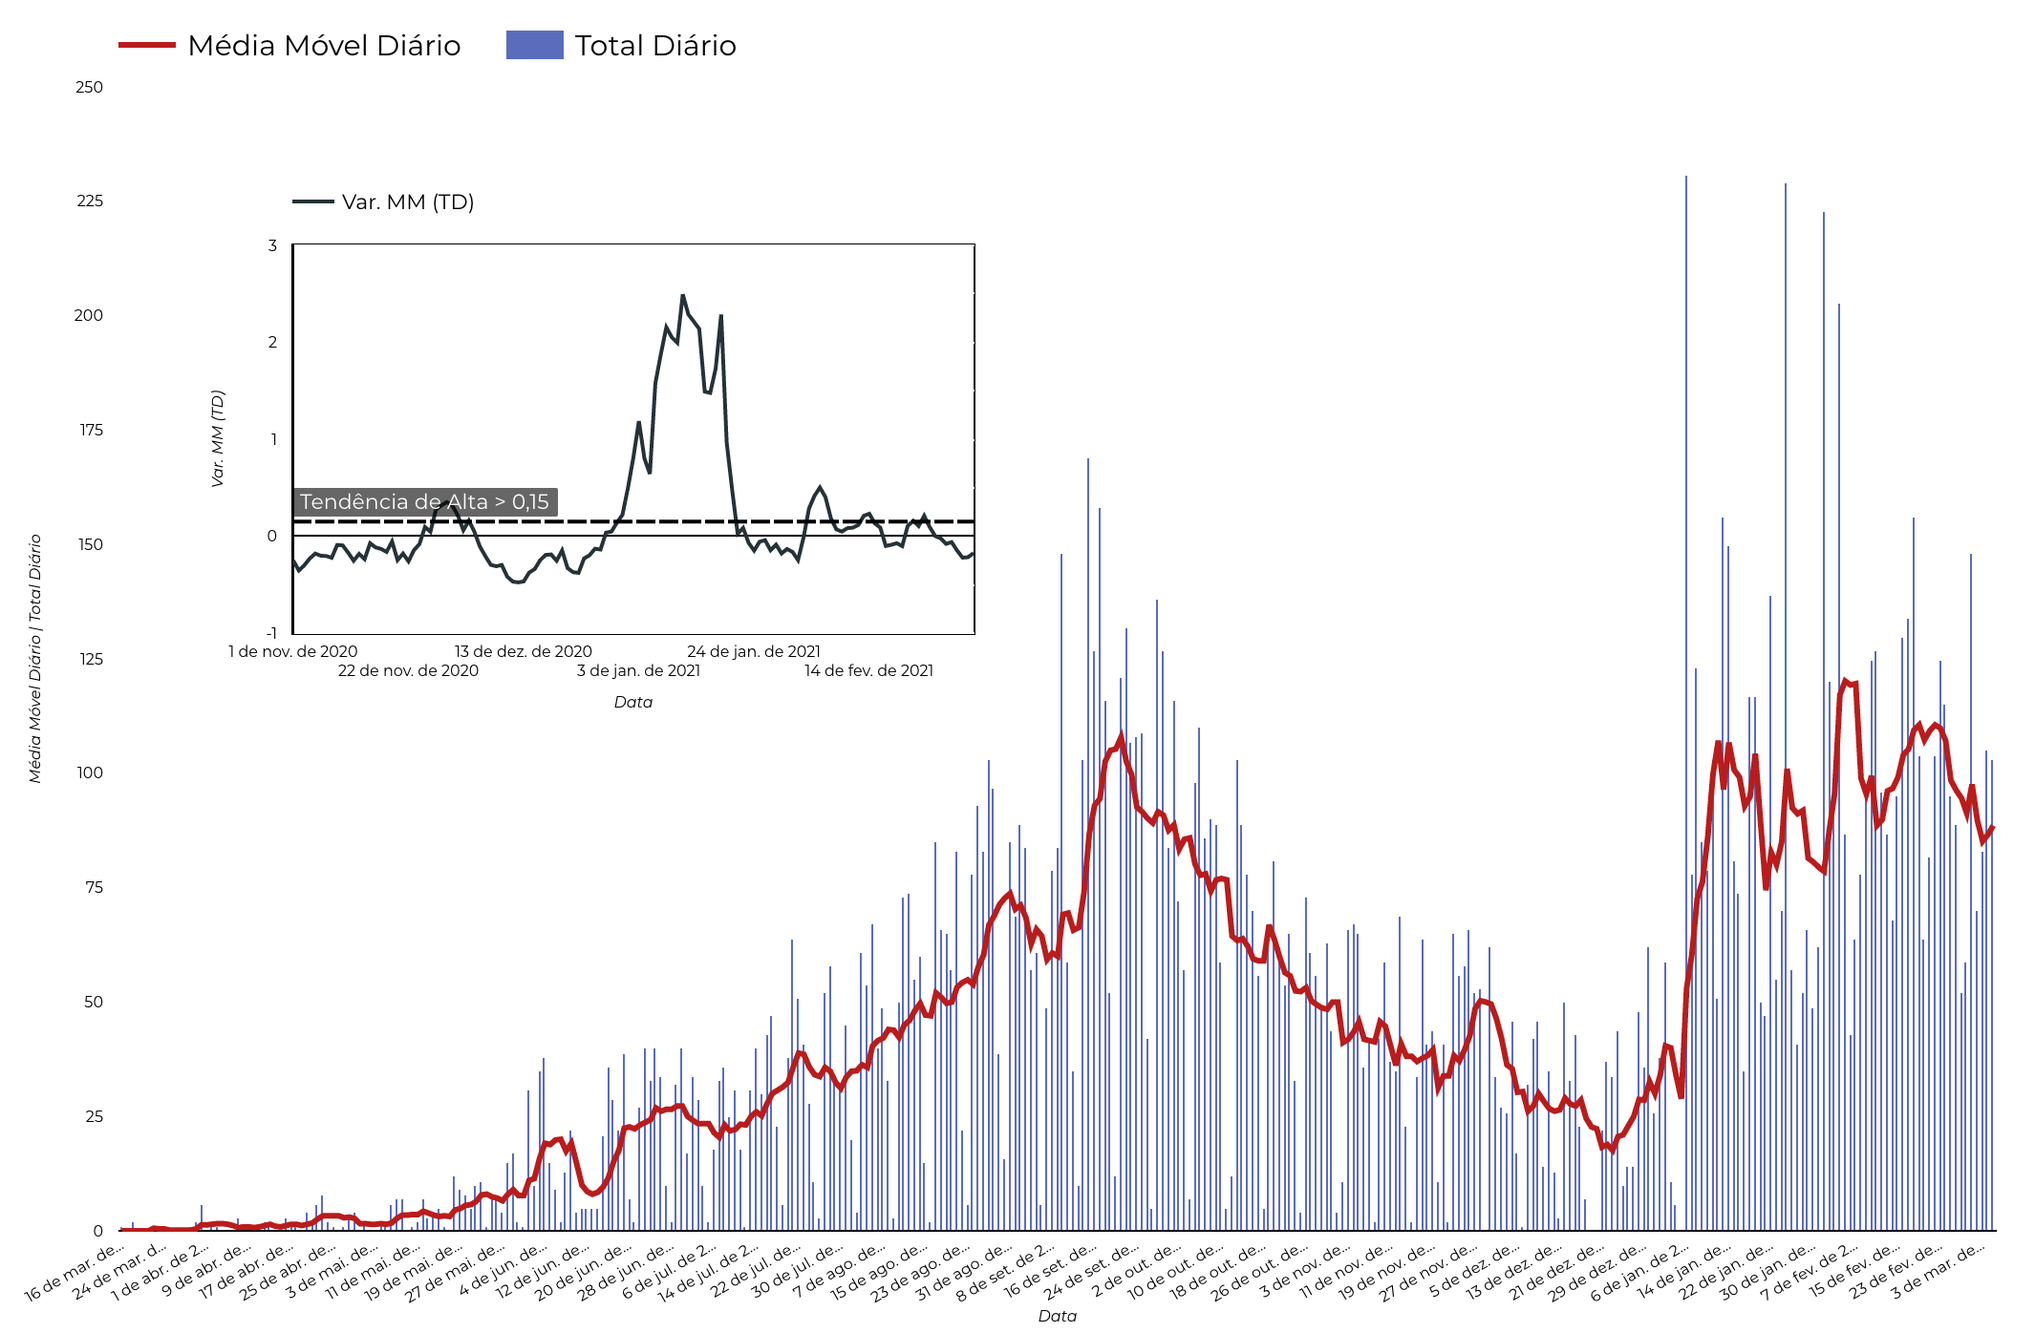
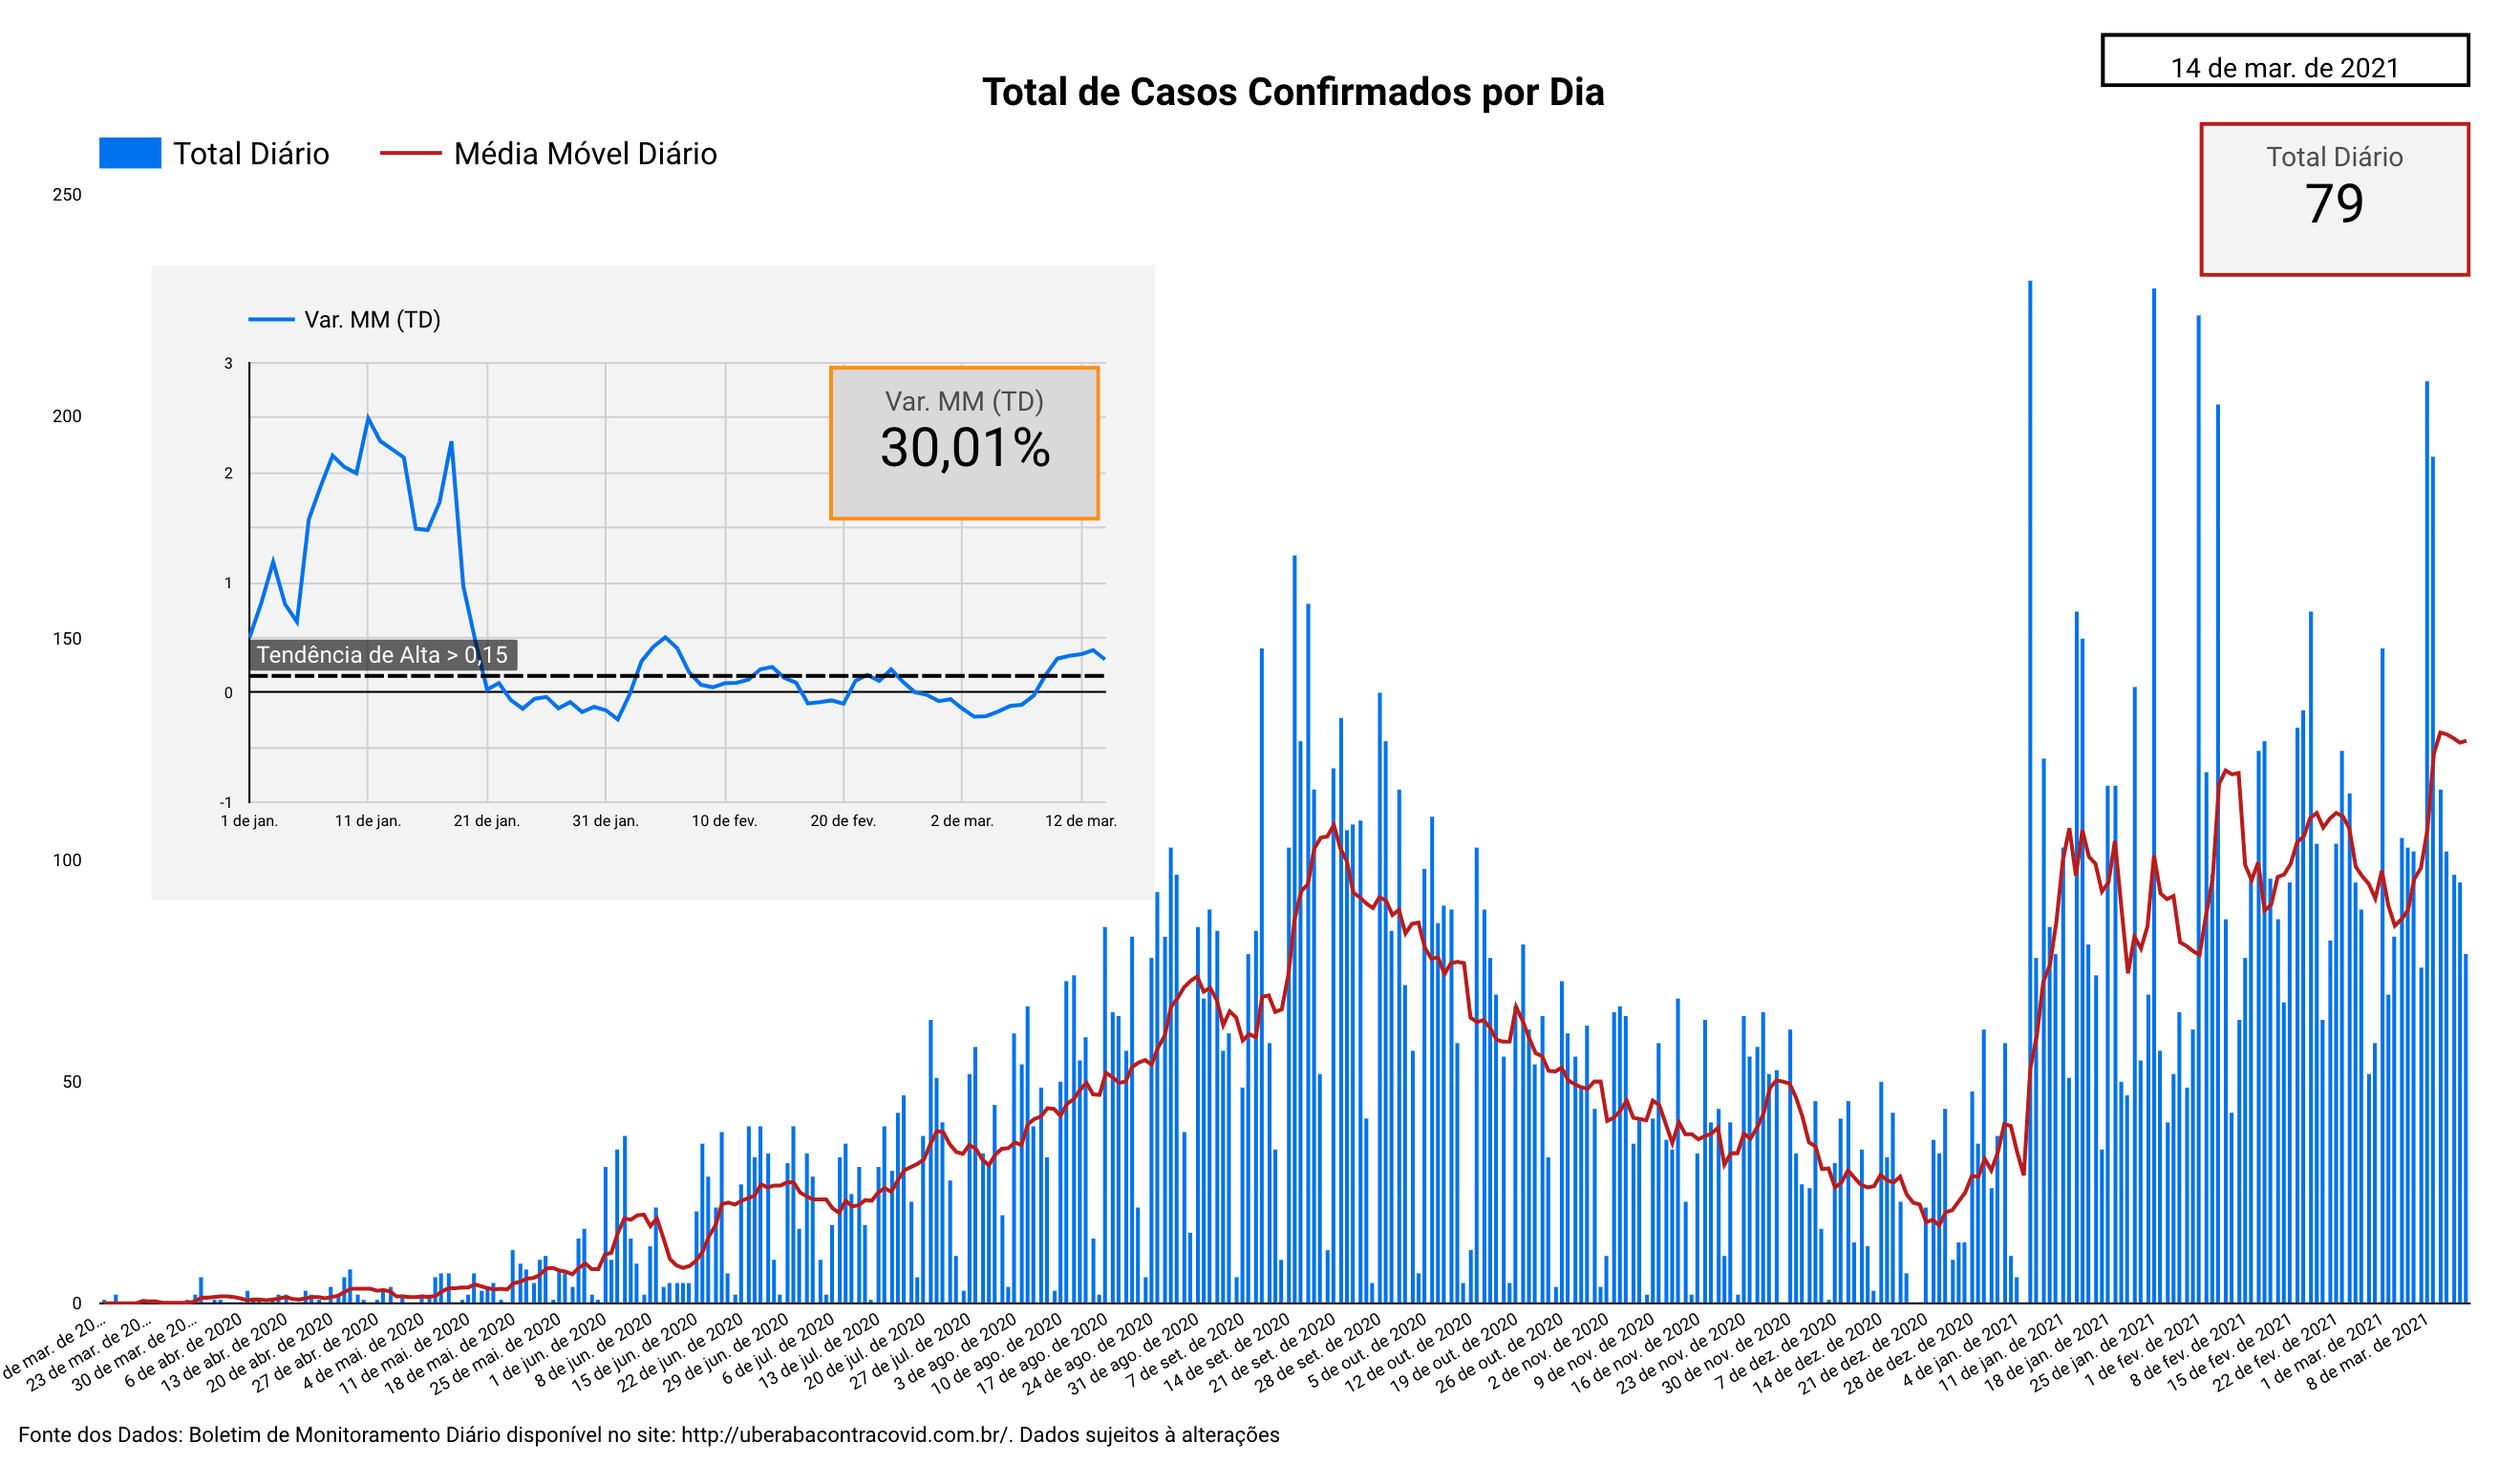
Atualizacao site

diff --git a/index.html b/index.html
@@ -134,14 +134,14 @@
           <div class="media-body">
               <!-- CARD.TITLE.TEXT -->
 
-              <img src="./web/municipios/MG/Uberaba/casosfev.png" class="img-fluid" style="max-height:600px;" alt="Boletim do Perfil Epidemiológico dos Casos de Fevereiro">
+              <!--<img src="./web/municipios/MG/Uberaba/casosfev.png" class="img-fluid" style="max-height:600px;" alt="Boletim do Perfil Epidemiológico dos Casos de Fevereiro">
               <p class="text-center mt-3">
               <b>Figura:</b> Boletim do Perfil Epidemiológico dos Casos de Fevereiro
-              </p>
+            </p> -->
 
               <h2 class="display">Casos de Uberaba</h2>
             <!--/a-->
-            <p class="card-text">Dados e projeções para o município de Uberaba, informações até o dia 05 de março 2021. Informações coletadas com a própria Secretaria Municipal de Saúde de Uberaba e pelo monitoramento diário</p>
+            <p class="card-text">Dados e projeções para o município de Uberaba, informações até o dia 14 de março 2021. Informações coletadas com a própria Secretaria Municipal de Saúde de Uberaba e pelo monitoramento diário</p>
             <!-- CARD.TITLE.DESCRIPTION -->
           </div>
         </div>
@@ -155,8 +155,8 @@
 
         <p class="text-justify mt-3">
             <ul>
-            <li>No dia de hoje (05/03/2021), acumulamos 15882 casos notificados.</li>
-            <li>Projeção para dia 10 de março é de 16339 podendo chegar até 16938 casos notificados, como indicado pela faixa cinza.</li>
+            <li>No dia de hoje (14/03/2021), acumulamos 16978 casos notificados.</li>
+            <li>Projeção para dia 19 de março é de 17438 podendo chegar até 18056 casos notificados, como indicado pela faixa cinza.</li>
             <li>Pontos pretos: número de casos confirmados a cada dia.</li>
             <li>Pontos laranjas: a previsão para os próximos 5 dias.</li>
             </ul>
@@ -253,16 +253,7 @@
           </ul>
           </p>
 
-        <p class="text-justify mt-3">
-        A Figura 5  apresenta a evolução da variação da média móvel dos novos casos diários.
-        </p>
 
-
-        <a target="_blank">
-          <img src="./web/municipios/MG/Uberaba/variacaodiarios1.png" class="img-fluid" style="max-height:600px;" alt="Gŕafico mostrando os indicadores da cidade de Uberaba.">
-        </a>
-
-        <p class="text-center mt-3"> <b>Figura 5:</b> Variação da média móvel de novos casos diários confirmados </p>
 
         <div class="media-body">
             <h3 class="card-title">Óbitos da Covid-19 em Uberaba</h3>
@@ -279,45 +270,58 @@
         </p>
 -->
         <p class="text-justify mt-3">
-        O gráfico da Figura 6 apresenta a evolução do número de óbitos com a média móvel e também a variação dessa média. A variação da média móvel do número de óbitos é de 12%.
+        O gráfico da Figura 5 apresenta a evolução do número de óbitos.
         </p>
 
         <a target="_blank">
           <img src="./web/municipios/MG/Uberaba/obitos1.png" class="img-fluid" style="max-height:600px;" alt="Gŕafico mostrando os indicadores da cidade de Uberaba.">
         </a>
 
-        <p class="text-center mt-3"> <b>Figura 6:</b> Total de óbitos e Variação da média móvel</p>
+        <p class="text-center mt-3"> <b>Figura 5:</b> Total de óbitos e óbitos diários</p>
 
 
         <a target="_blank">
           <img src="./web/municipios/MG/Uberaba/obitosmensal1.png" class="img-fluid" style="max-height:600px;" alt="Gŕafico mostrando os indicadores da cidade de Uberaba.">
         </a>
 
-        <p class="text-center mt-3"> <b>Figura 7:</b> Total de óbitos por mês</p>
+        <p class="text-center mt-3"> <b>Figura 6:</b> Total de óbitos por mês</p>
 
         <div class="media-body">
             <h3 class="card-title">Ocupação dos Leitos</h3>
         </div>
 
         <p class="text-justify mt-3">
-        O gráfico da Figura 8 apresenta a ocupação dos leitos de UTI na cidade de Uberaba.
-        </p>
-
-        <a target="_blank">
-          <img src="./web/municipios/MG/Uberaba/leitosuti1.png" class="img-fluid" style="max-height:600px;" alt="Gŕafico mostrando os indicadores da cidade de Uberaba.">
-        </a>
-
-        <p class="text-center mt-3"> <b>Figura 8:</b> Ocupação dos leitos de UTI por COVID-19 em Uberaba</p>
-
-        <p class="text-justify mt-3">
-        O gráfico da Figura 9 apresenta a ocupação dos leitos de UTI e Enfermaria na cidade de Uberaba.
+        O gráfico da Figura 7 apresenta a ocupação dos leitos de UTI e Enfermaria na cidade de Uberaba.
         </p>
 
         <a target="_blank">
           <img src="./web/municipios/MG/Uberaba/leitosenf1.png" class="img-fluid" style="max-height:600px;" alt="Gŕafico mostrando os indicadores da cidade de Uberaba.">
         </a>
 
+        <p class="text-center mt-3"> <b>Figura 7:</b> Ocupação dos leitos de UTI e Enfermaria por COVID-19 em Uberaba</p>
+
+        <div class="media-body">
+            <h3 class="card-title">Evolução dos Indicadores por Semana Epidemiológica</h3>
+        </div>
+
+        <a target="_blank">
+          <img src="./web/municipios/MG/Uberaba/evolucaocasos.png" class="img-fluid" style="max-height:600px;" alt="Gŕafico mostrando os indicadores da cidade de Uberaba.">
+        </a>
+
+        <p class="text-center mt-3"> <b>Figura 8:</b> Ocupação dos leitos de UTI e Enfermaria por COVID-19 em Uberaba</p>
+
+        <a target="_blank">
+          <img src="./web/municipios/MG/Uberaba/evolucaoocupacao.png" class="img-fluid" style="max-height:600px;" alt="Gŕafico mostrando os indicadores da cidade de Uberaba.">
+        </a>
+
         <p class="text-center mt-3"> <b>Figura 9:</b> Ocupação dos leitos de UTI e Enfermaria por COVID-19 em Uberaba</p>
+
+        <a target="_blank">
+          <img src="./web/municipios/MG/Uberaba/evolucaoobitossemana.png" class="img-fluid" style="max-height:600px;" alt="Gŕafico mostrando os indicadores da cidade de Uberaba.">
+        </a>
+
+        <p class="text-center mt-3"> <b>Figura 10:</b> Ocupação dos leitos de UTI e Enfermaria por COVID-19 em Uberaba</p>
+
 
         <!-- Número reprodutivo -->
 <!--        <div class="media-body">

diff --git a/sobre.html b/sobre.html
@@ -137,6 +137,7 @@
             <b>Alunos:</b>
             <br>
               <ul>
+                <li>Antônio Luiz Ferreira Junior (Discente do Curso de Licenciatura em Física/UFTM)</li>
                 <li>Caroline Sales de Azevedo (Discente do Curso de Licenciatura em Matemática/UFTM)</li>
                 <li>Frederico Campos Freitas (Doutorando do Curso de Pós-Graduação em Química/UFTM)</li>
                 <li>Guilherme Andrade Oliveira (Mestrando do PROFMAT)</li>
